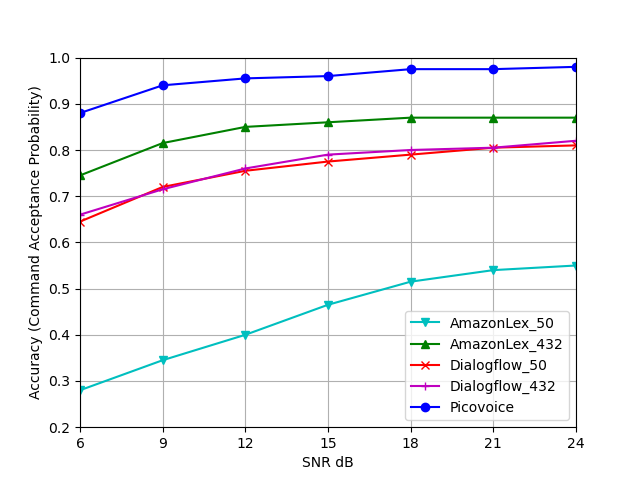
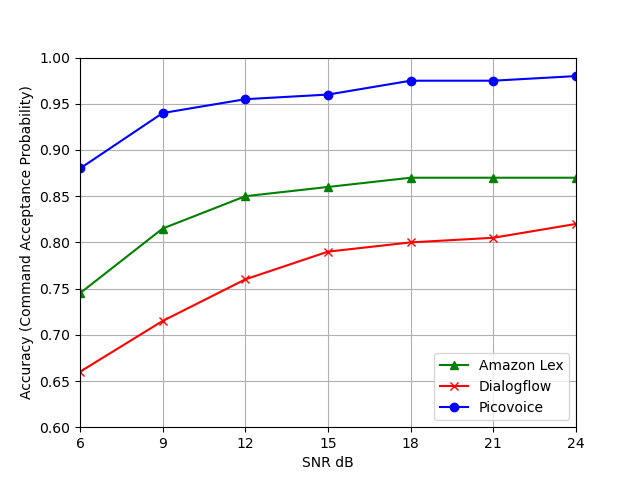
updated results

diff --git a/benchmark/plot.py b/benchmark/plot.py
@@ -1,16 +1,21 @@
 import matplotlib.pyplot as plt
 import numpy as np
 
-df_cafe = np.array([0.67, 0.69, 0.74, 0.76, 0.78, 0.79, 0.84])
-df_kitchen = np.array([0.68, 0.72, 0.74, 0.77, 0.78, 0.79, 0.79])
+aws_cafe = np.array([0.70, 0.80, 0.85, 0.86, 0.87, 0.87, 0.87])
+aws_kitchen = np.array([0.79, 0.83, 0.85, 0.86, 0.87, 0.87, 0.87])
+aws = (aws_cafe + aws_kitchen) / 2.
+
+df_cafe = np.array([0.63, 0.70, 0.75, 0.78, 0.79, 0.80, 0.81])
+df_kitchen = np.array([0.69, 0.73, 0.77, 0.80, 0.81, 0.81, 0.83])
 df = (df_cafe + df_kitchen) / 2.
 
-pv_cafe = np.array([0.86, 0.93, 0.95, 0.96, 0.97, 0.97, 0.97])
-pv_kitchen = np.array([0.9, 0.94, 0.96, 0.97, 0.97, 0.97, 0.97])
+pv_cafe = np.array([0.86, 0.92, 0.95, 0.96, 0.97, 0.97, 0.98])
+pv_kitchen = np.array([0.90, 0.96, 0.96, 0.96, 0.98, 0.98, 0.98])
 pv = (pv_cafe + pv_kitchen) / 2.
 
 snr = [6, 9, 12, 15, 18, 21, 24]
 
+plt.plot(snr, aws, color='g', marker='^', label='Amazon Lex')
 plt.plot(snr, df, color='r', marker='x', label='Dialogflow')
 plt.plot(snr, pv, color='b', marker='o', label='Picovoice')
 plt.xlim(6, 24)

diff --git a/README.md b/README.md
@@ -53,6 +53,8 @@ python benchmark/benchmark.py --engine_type GOOGLE_DIALOGFLOW --gcp_credential_p
 # Results
 
 Below is the result of benchmark. Command Acceptance Probability (Accuracy) is defined as the probability of the engine
-to correctly understand the speech command.
+to correctly understand the speech command.  
+The Amazon Lex bot and Dialogflow agent used to produce these results were
+both trained on all 432 sample utterances.
 
 ![](data/misc/result.png)
